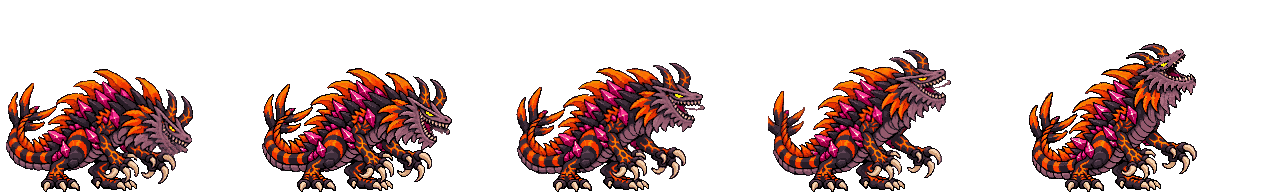
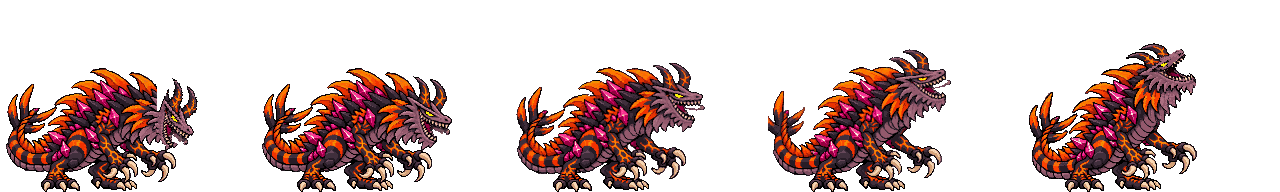
Fix Tlézcatl Stage 3 down-aimed Flame Jet frame
The generated down-aim frame had the jaws melted shut, and the flame
started from the closed snout. Rebuilt it from the level frame's
open-jawed head rotated 20 degrees snout-down about the jaw hinge
(8x nearest-neighbour rotation, outline on the exposed back of the
skull), angle -15 -> -20, mouth point moved into the gape.

Claude-Session: https://claude.ai/code/session_01SJ9dCwvJ4Bo4ftXJox9Usc

Changed region(s): [[0.0, 0.3438, 0.1562, 0.9688]]

diff --git a/src/presentation.ts b/src/presentation.ts
@@ -150,9 +150,10 @@ const TLEZCATL_S3:Form={width:120,borrow:true,anims:{idle:{src:'assets/tlezcatl-
   pound:{src:'assets/tlezcatl-s3-heavy-slam.png',frames:8,fps:16,once:true,...TZ3_LEFT},
   // Flame Jet (the game draws the fire from `mouth`), skeleton-posed by the same script: jetStart inhales with the head reared back, then
   // drops forward into the breath pose with the jaws wide; jetAim is that pose with the head turned about the neck, `angles` measured by
-  // rotation-matching the breath head into each frame and `mouth` at the front of the open jaws; jetEnd shuts the jaws and settles.
+  // rotation-matching the breath head into each frame and `mouth` at the front of the open jaws (the down frame is the level frame's
+  // open-jawed head rotated 20 degrees snout-down about the jaw hinge, since the generated one melted the jaws shut); jetEnd shuts the jaws and settles.
   jetStart:{src:'assets/tlezcatl-s3-jet-start.png',frames:5,fps:22,once:true,...TZ3_LEFT,mouth:[190,128]},
-  jetAim:{src:'assets/tlezcatl-s3-jet-aim.png',frames:5,fps:10,once:true,...TZ3_LEFT,angles:[-15,0,18,39,57],mouth:[[186,136],[190,128],[188,104],[180,84],[166,68]]},
+  jetAim:{src:'assets/tlezcatl-s3-jet-aim.png',frames:5,fps:10,once:true,...TZ3_LEFT,angles:[-20,0,18,39,57],mouth:[[182,140],[190,128],[188,104],[180,84],[166,68]]},
   jetEnd:{src:'assets/tlezcatl-s3-jet-end.png',frames:4,fps:16,once:true,...TZ3_LEFT},
   // Crouch (the unshifted base, skeleton-posed by the same script): drops off the hind legs onto all fours, both claws planted on the
   // street, belly and chest low and the head thrust forward (126px tall to 92px), a slow breathing loop on that pose, and the drop
